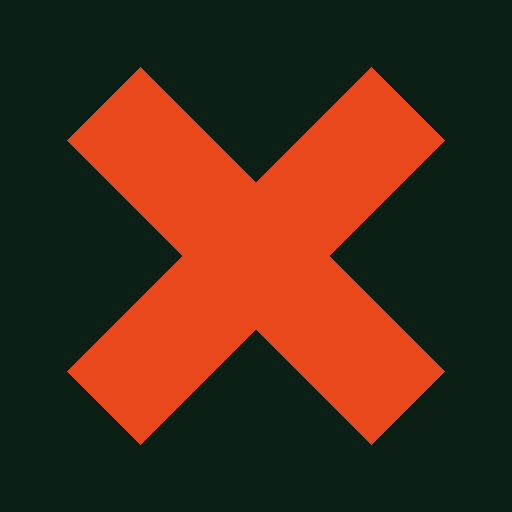
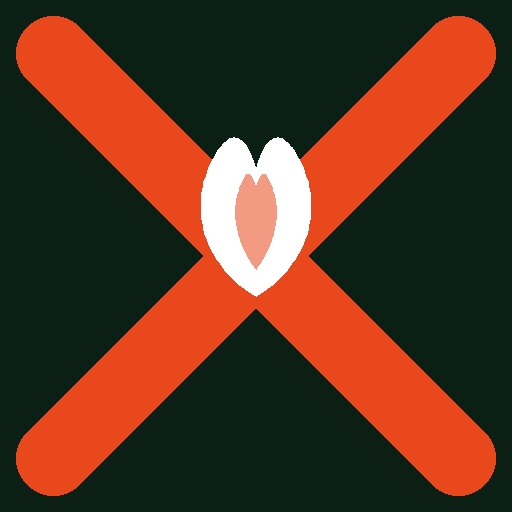
Add files via upload

Changed region(s): [[0.0312, 0.0312, 0.9688, 0.9688]]

diff --git a/index.html b/index.html
@@ -694,8 +694,13 @@ html, body {
   <div class="home-top">
     <div>
       <svg width="38" height="38" viewBox="0 0 38 38" fill="none">
+        <!-- Crossed logs -->
         <line x1="4" y1="4" x2="34" y2="34" stroke="#E8481C" stroke-width="5.5" stroke-linecap="round"/>
         <line x1="34" y1="4" x2="4" y2="34" stroke="#E8481C" stroke-width="5.5" stroke-linecap="round"/>
+        <!-- Outer flame — white, rising between the upper arms -->
+        <path d="M19,22 C15.5,20 14,16 15.5,12.5 C16.5,10 18,9 19,12.5 C20,9 21.5,10 22.5,12.5 C24,16 22.5,20 19,22 Z" fill="white"/>
+        <!-- Inner flame — orange glow for depth -->
+        <path d="M19,20 C17.5,18 17,15.5 18,13.5 C18.5,12 19,14 19,14 C19,14 19.5,12 20,13.5 C21,15.5 20.5,18 19,20 Z" fill="#E8481C" opacity="0.55"/>
       </svg>
       <div class="wordmark">Campgrounder</div>
     </div>
@@ -2008,11 +2013,48 @@ function locateMe() {
 renderResults();
 renderSaved();
 
-// ─── PWA SERVICE WORKER ──────────────────────────
+// ─── PWA: SERVICE WORKER + INSTALL HANDLING ──────
+
+// Register service worker
 if ('serviceWorker' in navigator) {
   window.addEventListener('load', () => {
-    navigator.serviceWorker.register('/sw.js').catch(() => {});
+    navigator.serviceWorker.register('/sw.js')
+      .then(reg => {
+        // Check for SW updates every time the app is focused
+        document.addEventListener('visibilitychange', () => {
+          if (!document.hidden) reg.update();
+        });
+      })
+      .catch(() => {});
   });
+}
+
+// Handle deep-link shortcuts from manifest.json
+(function handleLaunchParams() {
+  const params = new URLSearchParams(window.location.search);
+  const action = params.get('action');
+  if (action === 'saved') {
+    // Navigate to saved screen on launch
+    requestAnimationFrame(() => go('saved', 'home'));
+  } else if (action === 'browse') {
+    requestAnimationFrame(() => go('results', 'home'));
+  }
+})();
+
+// Capture the install prompt so we can trigger it from within the app later
+let _installPrompt = null;
+window.addEventListener('beforeinstallprompt', e => {
+  e.preventDefault();
+  _installPrompt = e;
+});
+function promptInstall() {
+  if (_installPrompt) {
+    _installPrompt.prompt();
+    _installPrompt.userChoice.then(() => { _installPrompt = null; });
+  } else {
+    // iOS doesn't support install prompt — show instructions
+    showToast('Tap Share → Add to Home Screen');
+  }
 }
 </script>
 
